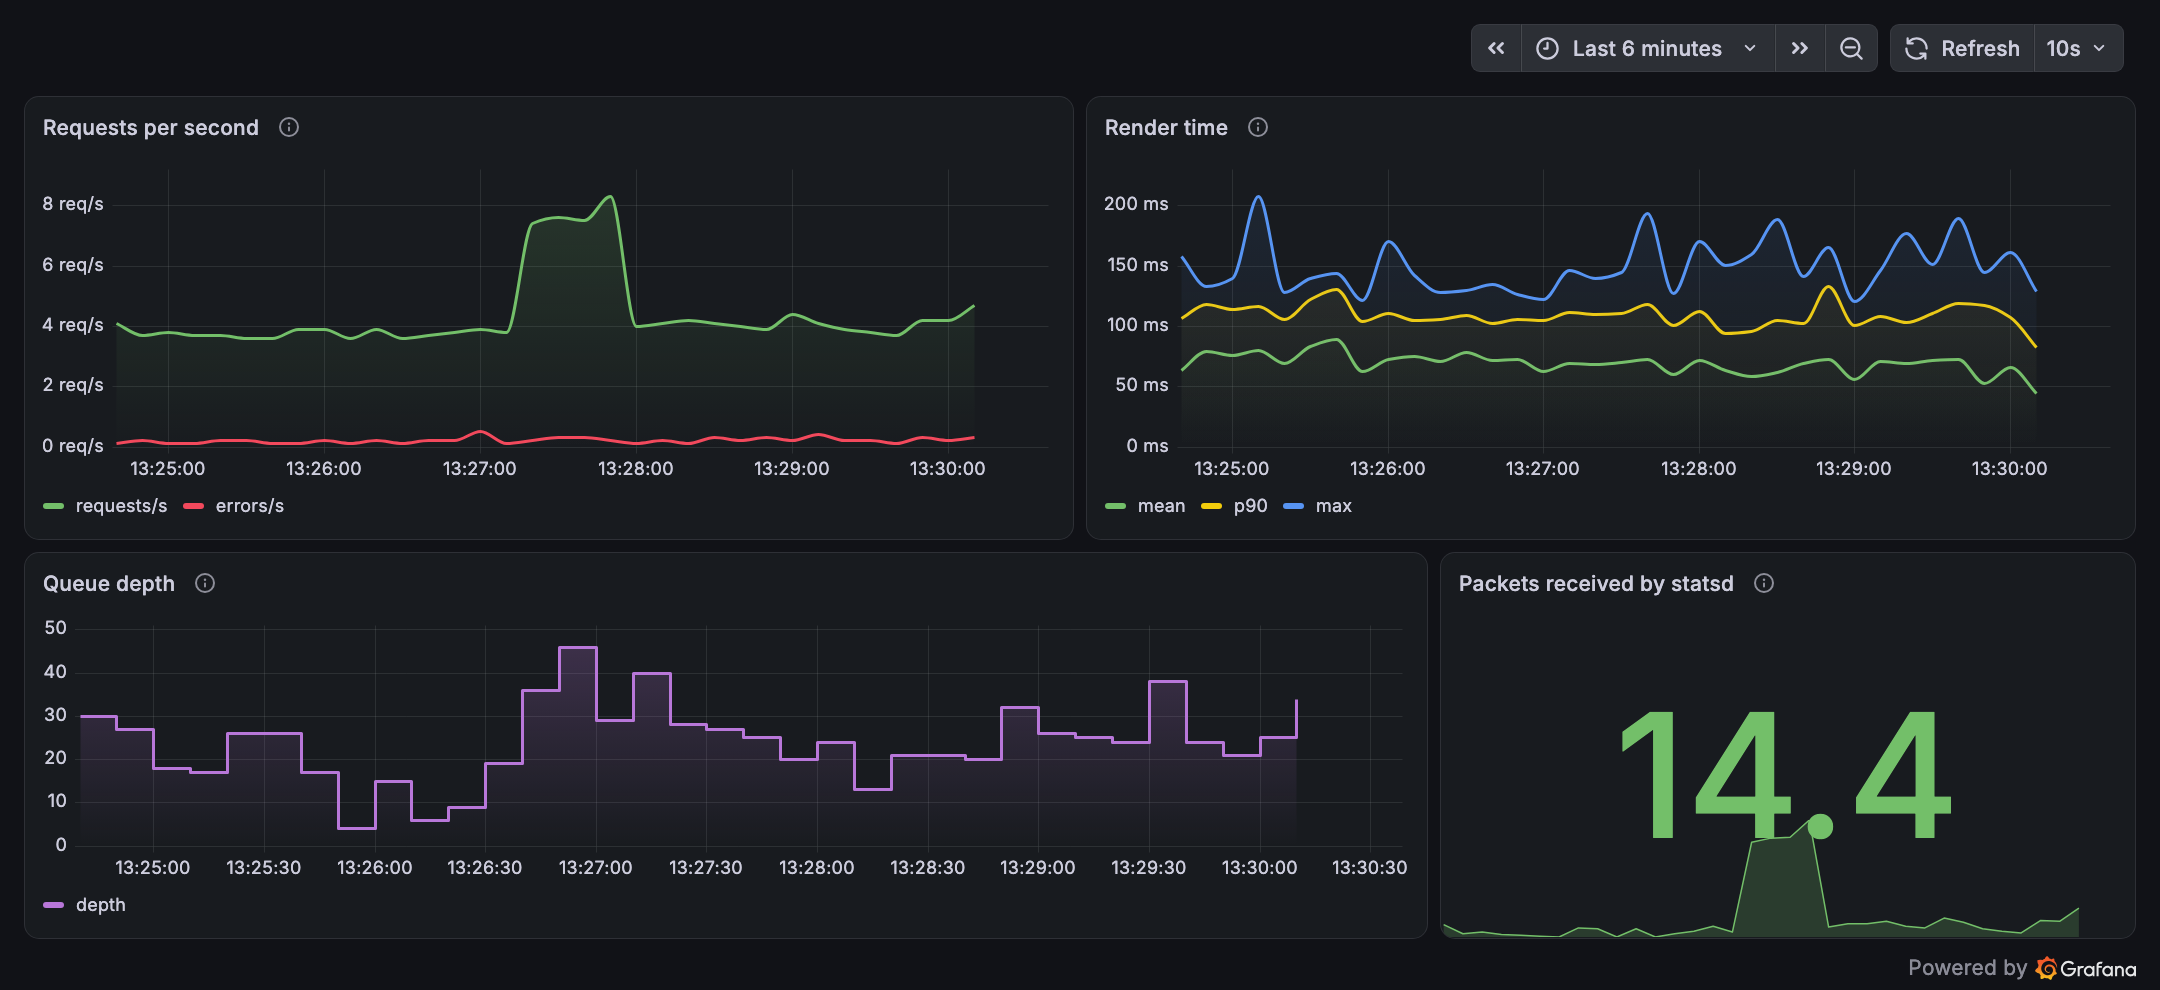
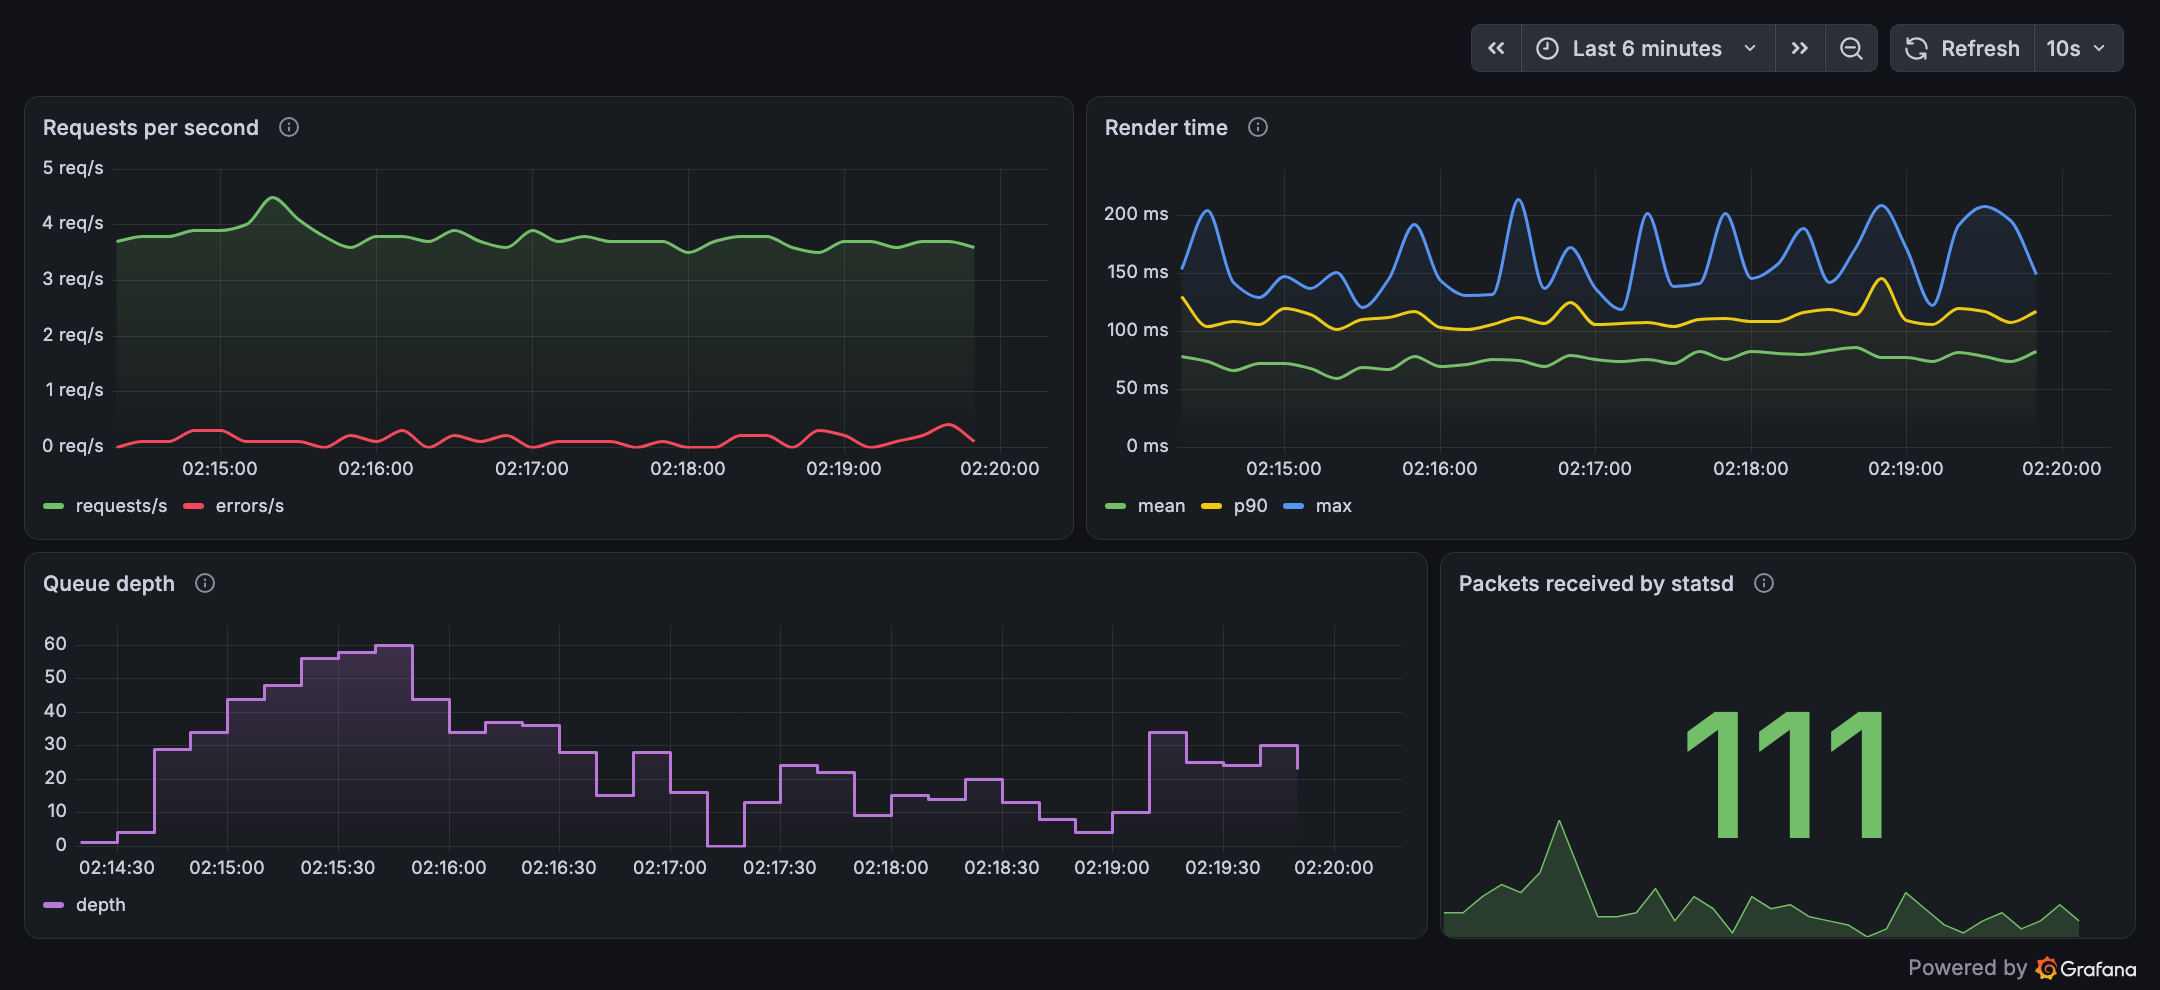
Rebuild the stack around the official statsd and repoint statsd links

diff --git a/examples/statsd/config.js b/examples/statsd/config.js
@@ -1,0 +1,48 @@
+/*
+ * statsd configuration for the local stack.
+ *
+ * This is the real thing: https://github.com/statsd/statsd reads this file
+ * on startup. Everything below is deliberately explicit, so you can see
+ * what shapes the numbers before they reach Graphite.
+ */
+{
+  // Listen for the UDP packets this client sends.
+  port: 8125,
+
+  // Plain-text admin interface: `echo counters | nc localhost 8126`.
+  mgmt_port: 8126,
+
+  // Where the aggregates go. `graphite` is the compose service name, and
+  // 2003 is carbon's plaintext receiver.
+  graphiteHost: "graphite",
+  graphitePort: 2003,
+
+  // Aggregate over ten seconds rather than the default minute, so a graph
+  // moves while you are still watching it. Production usually leaves this
+  // at 10000 too, and the flush interval is what decides how coarse your
+  // spikes look.
+  flushInterval: 10000,
+
+  graphite: {
+    // Modern namespacing: counters land under stats.counters.<name>,
+    // timers under stats.timers.<name>, gauges under stats.gauges.<name>.
+    // The legacy layout puts counter rates at stats.<name> instead, which
+    // is tidier to type and harder to explain.
+    legacyNamespace: false,
+
+    // Send the per-flush count as well as the rate.
+    globalPrefix: "stats"
+  },
+
+  // Percentiles computed for every timer. Each one becomes its own series,
+  // so `upper_90` is the p90 of whatever you timed.
+  percentThreshold: [50, 90, 95, 99],
+
+  // Keep flushing a metric as zero after traffic stops, rather than
+  // dropping the series. Makes "did it stop, or did it break" answerable.
+  deleteIdleStats: false,
+
+  // Log every packet received. Useful while you are wiring things up,
+  // noisy once it works.
+  dumpMessages: false
+}

diff --git a/statsd/__init__.py b/statsd/__init__.py
@@ -1,5 +1,8 @@
-"""statsd is a client for Etsy's statsd server, a front end/proxy for
-the Graphite stats collection and graphing server.
+"""A client for statsd, the metrics aggregation daemon.
+
+statsd started at Etsy and now lives at https://github.com/statsd/statsd.
+It sits in front of Graphite, aggregating the metrics this client sends
+over UDP and flushing the results onwards.
 """
 
 import importlib.metadata

diff --git a/statsd/gauge.py b/statsd/gauge.py
@@ -116,7 +116,7 @@ class Gauge(Client):
         """Set the gauge to `value`
 
         Gauges work like this (from the statsd docs,
-        https://github.com/etsy/statsd/blob/master/docs/metric_types.md):
+        https://github.com/statsd/statsd/blob/master/docs/metric_types.md):
 
             Adding a sign to the gauge value will change the value,
             rather than setting it.

diff --git a/docs/local-stack.md b/docs/local-stack.md
@@ -2,41 +2,94 @@
 
 Reading about metrics is not the same as watching one arrive. The
 repository ships a `docker-compose.yml` that brings up statsd, Graphite
-and Grafana, so you can send a counter and see it in a graph a few seconds
+and Grafana, so you can send a counter and see it in a graph ten seconds
 later.
 
 ## Up and running
 
 ```bash
-docker compose up -d
+docker compose up -d --wait
 uv run python examples/send_metrics.py --seconds 120
 ```
 
-Then open <http://localhost:3000>. Grafana comes up with the Graphite
-datasource already configured and a dashboard already loaded, with no
-login prompt in the way. Graphite's own interface is on
-<http://localhost:8080> if you want to browse the metric tree.
+`--wait` holds until every service reports healthy, so when the command
+returns the stack is actually ready rather than merely started. Then open
+<http://localhost:3000>: Grafana has the Graphite datasource configured
+and a dashboard loaded, with no login prompt in the way.
 
 The feeder script sends what a small web service would: a request counter,
 an error counter, a timer around the rendering, and a gauge that wanders
 like a queue. Every call goes through the same public API the rest of
-these pages use.
+these pages use, so nothing in the graphs comes from anywhere special.
 
-Ports are overridable, which matters if something already owns 8125 or
-3000 on your machine:
-
-```bash
-GRAFANA_PORT=3001 STATSD_PORT=18125 GRAPHITE_HTTP_PORT=8081 docker compose up -d
-```
-
-When you are done:
+No Python to hand? The stack can generate its own traffic:
 
 ```bash
-docker compose down -v
+docker compose --profile demo up -d --wait
 ```
 
-The `-v` throws away the whisper files as well, so the next run starts
-from an empty tree.
+That runs the same script in a container against the `statsd` service,
+installing `python-statsd` from PyPI as it starts. `DEMO_SECONDS` sets how
+long it keeps going, an hour by default.
+
+## What is in the stack
+
+| Service | Image | Port | Job |
+| --- | --- | --- | --- |
+| `statsd` | `statsd/statsd` | 8125/udp, 8126 | Aggregates your packets, flushes every 10s |
+| `graphite` | `graphiteapp/graphite-statsd` | 8080 | carbon stores the series, graphite-web queries them |
+| `grafana` | `grafana/grafana` | 3000 | Draws them |
+| `demo` | `python:3.13-slim` | none | Optional traffic generator, `--profile demo` |
+
+The statsd service is the real thing from
+[statsd/statsd](https://github.com/statsd/statsd), reading
+`examples/statsd/config.js` from this repository. The Graphite image
+bundles a statsd of its own, which this stack leaves unused, because the
+point is to show you the configuration your packets actually meet.
+
+Every image here is published for amd64 and arm64, so an Apple Silicon
+machine runs the stack natively rather than under emulation.
+
+## The statsd configuration
+
+`examples/statsd/config.js` is short enough to read in full, and three
+settings shape what you see in the graphs:
+
+```js
+flushInterval: 10000,
+graphite: { legacyNamespace: false },
+percentThreshold: [50, 90, 95, 99],
+```
+
+`flushInterval` is how often statsd aggregates and forwards. Ten seconds
+here, a minute by default, and whatever it is, a spike shorter than that
+arrives averaged with its neighbours.
+
+`legacyNamespace: false` picks the modern metric layout, which is the one
+in the table below. The legacy layout puts counter rates at
+`stats.<name>` instead, which is shorter to type and harder to explain.
+
+`percentThreshold` decides which percentiles exist. Each one becomes its
+own series, so `upper_90` is the p90 of whatever you timed.
+
+## Where your metrics land
+
+statsd rewrites names on the way through, and knowing the mapping saves a
+confused half hour in the Graphite tree:
+
+| You send | Graphite stores |
+| --- | --- |
+| `demo.requests:1\|c` | `stats.counters.demo.requests.rate` (per second) and `.count` (per flush) |
+| `demo.render:12.4\|ms` | `stats.timers.demo.render.{mean,median,upper_90,upper_99,upper,count,...}` |
+| `demo.depth:18\|g` | `stats.gauges.demo.depth` |
+
+So one timer arrives as a family of series, one per statistic statsd
+computed, and a counter arrives twice: as a rate and as a count.
+
+statsd also reports on itself. `stats.counters.statsd.packets_received.count`
+is the first thing to look at when your own metrics are missing, because
+it separates "nothing arrived" from "something arrived and I am querying
+the wrong name".
 
 ## Pointing your own code at it
 
@@ -49,74 +102,68 @@ connection = statsd.Connection(host='localhost', port=8125)
 statsd.Counter('myapp', connection).increment('requests')
 ```
 
-Give it ten seconds. statsd flushes on an interval, this compose file sets
-it to ten seconds, and until that flush happens Graphite has nothing to
-draw.
+Give it ten seconds. Until statsd flushes, Graphite has nothing to draw.
 
-## Where your metrics land
+## Ports, data and cleaning up
 
-statsd rewrites the names on the way through, and knowing the mapping
-saves a confused half hour in the Graphite tree. The compose file runs the
-default configuration, which is the legacy namespace:
+Every published port is overridable, which matters when something already
+owns 8125 or 3000 on your machine:
 
-| You send | Graphite stores |
-| --- | --- |
-| `demo.requests:1\|c` | `stats.demo.requests` (per second) and `stats_counts.demo.requests` (total) |
-| `demo.render:12.4\|ms` | `stats.timers.demo.render.{mean,upper_90,upper,count,...}` |
-| `demo.depth:18\|g` | `stats.gauges.demo.depth` |
+```bash
+GRAFANA_PORT=3001 STATSD_PORT=18125 GRAPHITE_HTTP_PORT=8081 docker compose up -d --wait
+```
 
-So a counter you send as `demo.requests` is queried as
-`stats.demo.requests`, and the timer you sent once arrives as a family of
-series, one per statistic the server computed.
+Graphite's whisper files and Grafana's database live in named volumes, so
+a `docker compose down` keeps your history and a restart picks it up
+again. To throw it all away:
 
-statsd also reports on itself. `stats.statsd.packets_received` is the
-first thing to look at when your own metrics are missing, because it
-separates "nothing arrived" from "something arrived and I am querying the
-wrong name".
+```bash
+docker compose down -v
+```
 
 ## When nothing shows up
 
-Work outwards from your process.
+Work outwards from your own process.
 
-Is the client sending at all? Turn on debug logging, which is covered at
-the end of the [connections page](connections.md).
+**Is the client sending at all?** Turn on debug logging, which the
+[connections page](connections.md) covers at the end.
 
-Is anything on the wire? Listen on the port yourself, with the stack
+**Is anything on the wire?** Listen on the port yourself, with the stack
 stopped:
 
 ```bash
-ncat -ul 8125
+uv run python examples/udp_listener.py
 ```
 
-Then run your code. The payloads appear as plain text, one per packet,
+Then run your code. Every payload appears as plain text, one per packet,
 exactly as the wire-format table on the [metrics page](metrics.md)
-describes them. No `ncat` to hand:
+describes. `ncat -ul 8125` does the same job if you would rather not run
+Python for it.
 
-```bash
-sudo tcpdump -i lo0 -A 'udp port 8125'
-```
-
-Is statsd receiving? Its admin interface answers on port 8126:
+**Is statsd receiving?** Its admin interface answers on 8126:
 
 ```bash
 echo counters | nc localhost 8126
 ```
 
-Is Graphite storing? Ask the render API directly, which returns JSON and
-skips the browser entirely:
+That lists every counter statsd currently holds, which tells you whether
+your name arrived the way you think it did.
+
+**Is Graphite storing?** Ask the render API directly and skip the browser:
 
 ```bash
-curl 'http://localhost:8080/render?target=stats.demo.requests&from=-10min&format=json'
+curl 'http://localhost:8080/render?target=stats.counters.demo.requests.rate&from=-10min&format=json'
 ```
 
 An empty list means the series does not exist, so the name is wrong or
 nothing ever arrived. A series of `null` datapoints means the series
-exists and the window you asked for is empty, which usually means you are
-looking at a gap rather than a failure.
+exists and the window you asked for is empty, which is usually a gap
+rather than a failure.
 
-## A note for Apple Silicon
+**Is a service unhealthy?** Every service has a healthcheck, so the state
+is visible without reading logs:
 
-`graphiteapp/graphite-statsd` publishes amd64 images, so on an M-series
-Mac the container runs under emulation. It works, and it is slower to
-start than you might expect. Give it a minute before deciding something is
-broken.
+```bash
+docker compose ps
+docker compose logs statsd --tail 20
+```

diff --git a/README.md b/README.md
@@ -21,8 +21,9 @@
   <a href="https://github.com/astral-sh/ruff"><img src="https://img.shields.io/endpoint?url=https://raw.githubusercontent.com/astral-sh/ruff/main/assets/badge/v2.json" alt="Linted and formatted with ruff"></a>
 </p>
 
-`python-statsd` is a client for Etsy's statsd server, a front end and proxy
-for the Graphite stats collection and graphing server. It supports Python
+`python-statsd` is a client for [statsd](https://github.com/statsd/statsd),
+the metrics aggregation daemon that started at Etsy and now lives in its own
+organisation, sitting in front of Graphite. It supports Python
 3.10 and newer, and it has no dependencies.
 
 ```bash
@@ -114,16 +115,19 @@ queries.increment()  # app.database.queries:1|c
 
 ## See it working
 
-The repository ships a compose file with statsd, Graphite and Grafana, so
-you can watch a metric arrive instead of taking anyone's word for it:
+The repository ships a compose file with the real
+[statsd](https://github.com/statsd/statsd), Graphite and Grafana, so you
+can watch a metric arrive instead of taking anyone's word for it:
 
 ```bash
-docker compose up -d
+docker compose up -d --wait
 uv run python examples/send_metrics.py --seconds 120
 ```
 
-Then open <http://localhost:3000>. Grafana comes up with the datasource
-configured and this dashboard loaded, no login in the way:
+`--wait` returns once every service reports healthy. No local Python?
+`docker compose --profile demo up -d --wait` generates the traffic from a
+container instead. Then open <http://localhost:3000>: Grafana has the
+datasource configured and this dashboard loaded, no login in the way:
 
 <p align="center">
   <img src="https://raw.githubusercontent.com/wolph/python-statsd/develop/docs/_static/grafana.png"
@@ -132,7 +136,9 @@ configured and this dashboard loaded, no login in the way:
 </p>
 
 That screenshot is the stack in this repository, fed by
-`examples/send_metrics.py` through this client. The
+`examples/send_metrics.py` through this client. statsd runs from
+`examples/statsd/config.js`, so the aggregation you see is configured in
+a file you can read and change. The
 [local stack guide](https://python-statsd.readthedocs.io/en/stable/local-stack.html)
 covers how statsd renames your metrics on the way through, and what to
 check when nothing shows up.
@@ -197,7 +203,7 @@ in behaviour tends to tell you which paragraph it just made wrong.
 
 - Source: <https://github.com/WoLpH/python-statsd>
 - Issues: <https://github.com/WoLpH/python-statsd/issues>
-- Statsd: <https://github.com/etsy/statsd>
+- Statsd: <https://github.com/statsd/statsd>
 - Graphite: <https://graphiteapp.org/>
 
 ## Support

diff --git a/docs/index.rst b/docs/index.rst
@@ -5,9 +5,10 @@ Python StatsD Client
    :alt: Metrics leave your application over UDP, statsd aggregates them, Graphite stores and graphs them
    :width: 100%
 
-``python-statsd`` is a client for Etsy's statsd server, a front end and
-proxy for the Graphite stats collection and graphing server. It supports
-Python 3.10 and newer, and it has no dependencies.
+``python-statsd`` is a client for `statsd <https://github.com/statsd/statsd>`_,
+the metrics aggregation daemon that started at Etsy and now lives in its own
+organisation, sitting in front of Graphite. It supports Python 3.10 and
+newer, and it has no dependencies.
 
 Install it, point it at a server, and send something:
 
@@ -72,7 +73,7 @@ Links
 - Reporting bugs: https://github.com/WoLpH/python-statsd/issues
 - Contributing: https://github.com/WoLpH/python-statsd/blob/develop/CONTRIBUTING.md
 - Django integration: https://github.com/wolph/django-statsd
-- Statsd: https://github.com/etsy/statsd
+- Statsd: https://github.com/statsd/statsd
 - Graphite: https://graphiteapp.org/
 
 Indices and Tables
